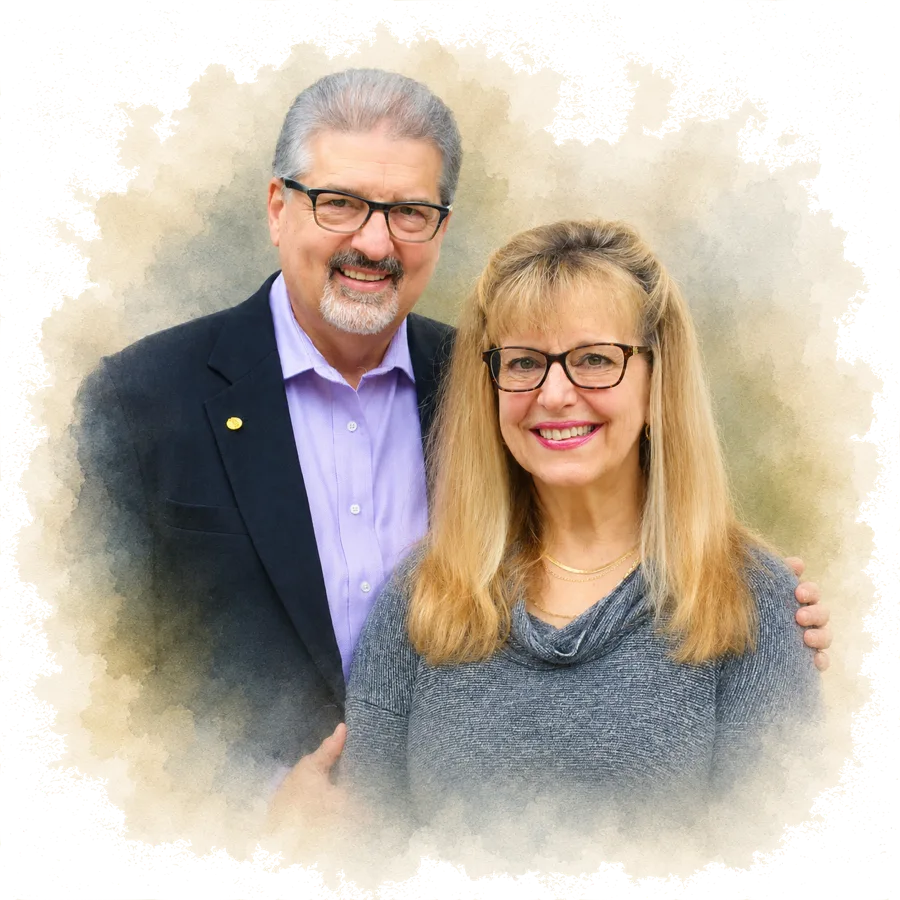
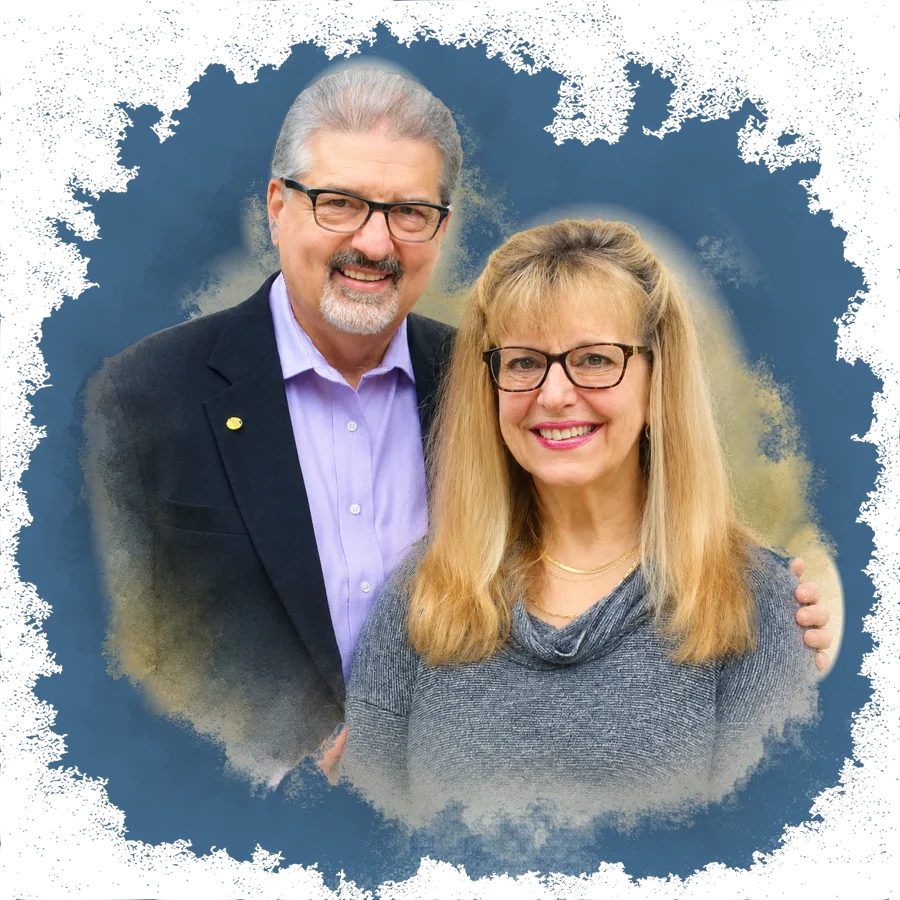
Authors page: keep the watercolor splotch, recolor its cream background to the site's steel blues; drop the circular fade

diff --git a/authors/index.html b/authors/index.html
@@ -94,7 +94,7 @@
   .headline{margin:0;font-family:var(--display);font-weight:400;font-size:clamp(46px,6vw,86px);line-height:1.04;color:var(--white)}
   .lede{margin:0;max-width:580px;font-size:19px;line-height:1.7;color:#E3ECF1}
   .cover-col{flex:0 1 440px;min-width:240px;display:flex;justify-content:center}
-  .portrait{display:block;width:100%;max-width:460px;height:auto;filter:saturate(.9) brightness(.9);-webkit-mask-image:radial-gradient(closest-side at 50% 44%,#000 44%,rgba(0,0,0,.65) 62%,rgba(0,0,0,.2) 80%,transparent 94%);mask-image:radial-gradient(closest-side at 50% 44%,#000 44%,rgba(0,0,0,.65) 62%,rgba(0,0,0,.2) 80%,transparent 94%)}
+  .portrait{display:block;width:100%;max-width:460px;height:auto}
   .cover{position:relative;display:block;width:100%;max-width:280px;box-shadow:0 34px 60px -18px rgba(0,0,0,.75),0 0 0 1px rgba(255,255,255,.06)}
   .cover img{display:block;width:100%;height:auto}
   .cover::after{content:"";position:absolute;inset:0;pointer-events:none;background:linear-gradient(90deg,rgba(0,0,0,.35) 0,rgba(255,255,255,.12) 2.5%,rgba(0,0,0,.14) 4.5%,rgba(0,0,0,0) 8%),linear-gradient(115deg,rgba(255,255,255,.14),rgba(255,255,255,0) 40%)}
